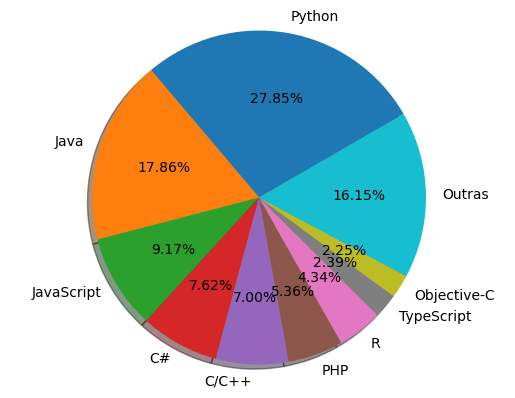
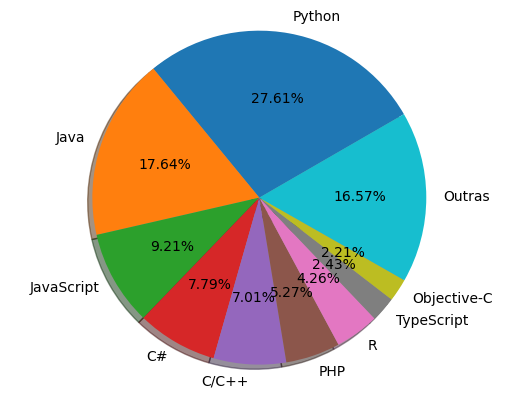
Build site at 2022-06-02 16:00:12 UTC

diff --git a/material/sobre/01-introdução.md b/material/sobre/01-introdução.md
@@ -4,7 +4,7 @@ parent: sobre
 nav_order: 0
 tags: [introdução, pypl, python, popularity]
 permalink: /popularidade/
-timestamp: '12/05/22'
+timestamp: '02/06/22'
 ---
 
 Python é a linguagem mais popular e a que mais cresce mundialmente
@@ -18,34 +18,34 @@ O **índice PYPL** (*PopularitY of Programming Language*) é obtido analisando a
 
 | Posição	| Linguagem |	Fatia (%)	| Tendência (%) |
 |:-------:|:--------- |:-----:|:---------:|
-| 1 | Python |          27.85  | -2.5  |
-| 2 | Java |          17.86  | -0.1  |
-| 3 | JavaScript |          9.17  | +0.4  |
-| 4 | C# |          7.62  | +0.7  |
-| 5 | C/C++ |          7.0  | +0.4  |
-| 6 | PHP |          5.36  | -1.0  |
-| 7 | R |          4.34  | +0.5  |
-| 8 | TypeScript |          2.39  | +0.7  |
-| 9 | Objective-C |          2.25  | +0.0  |
-| 10 | Swift |          2.05  | +0.3  |
-| 11 | Matlab |          1.82  | +0.2  |
-| 12 | Kotlin |          1.58  | -0.2  |
-| 13 | Go |          1.38  | -0.1  |
-| 14 | Rust |          1.15  | +0.3  |
-| 15 | Ruby |          1.14  | +0.0  |
-| 16 | VBA |          1.04  | -0.2  |
-| 17 | Ada |          0.81  | +0.2  |
-| 18 | Scala |          0.7  | +0.2  |
-| 19 | Dart |          0.66  | +0.0  |
-| 20 | Abap |          0.66  | +0.1  |
-| 21 | Visual Basic |          0.66  | +0.0  |
-| 22 | Lua |          0.5  | +0.0  |
-| 23 | Groovy |          0.45  | +0.1  |
-| 24 | Perl |          0.45  | +0.0  |
-| 25 | Julia |          0.4  | +0.0  |
-| 26 | Cobol |          0.28  | +0.0  |
-| 27 | Haskell |          0.28  | +0.1  |
-| 28 | Delphi/Pascal |          0.14  | +0.0  |
+| 1 | Python |          27.61  | -2.8  |
+| 2 | Java |          17.64  | -0.7  |
+| 3 | JavaScript |          9.21  | +0.4  |
+| 4 | C# |          7.79  | +0.8  |
+| 5 | C/C++ |          7.01  | +0.4  |
+| 6 | PHP |          5.27  | -1.0  |
+| 7 | R |          4.26  | +0.5  |
+| 8 | TypeScript |          2.43  | +0.7  |
+| 9 | Objective-C |          2.21  | +0.1  |
+| 10 | Swift |          2.17  | +0.4  |
+| 11 | Matlab |          1.71  | +0.2  |
+| 12 | Kotlin |          1.57  | -0.2  |
+| 13 | Go |          1.48  | +0.0  |
+| 14 | Rust |          1.29  | +0.4  |
+| 15 | Ruby |          1.1  | -0.0  |
+| 16 | VBA |          1.07  | -0.2  |
+| 17 | Ada |          0.95  | +0.4  |
+| 18 | Scala |          0.73  | +0.2  |
+| 19 | Visual Basic |          0.65  | -0.0  |
+| 20 | Dart |          0.64  | +0.0  |
+| 21 | Abap |          0.58  | +0.1  |
+| 22 | Lua |          0.51  | -0.0  |
+| 23 | Groovy |          0.48  | +0.1  |
+| 24 | Perl |          0.44  | +0.0  |
+| 25 | Julia |          0.41  | +0.0  |
+| 26 | Cobol |          0.34  | +0.1  |
+| 27 | Haskell |          0.29  | +0.1  |
+| 28 | Delphi/Pascal |          0.16  | +0.1  |
 
-***Mundialmente em maio de 2022, comparado a um ano antes***
+***Mundialmente em junho de 2022, comparado a um ano antes***
 {: .small}
